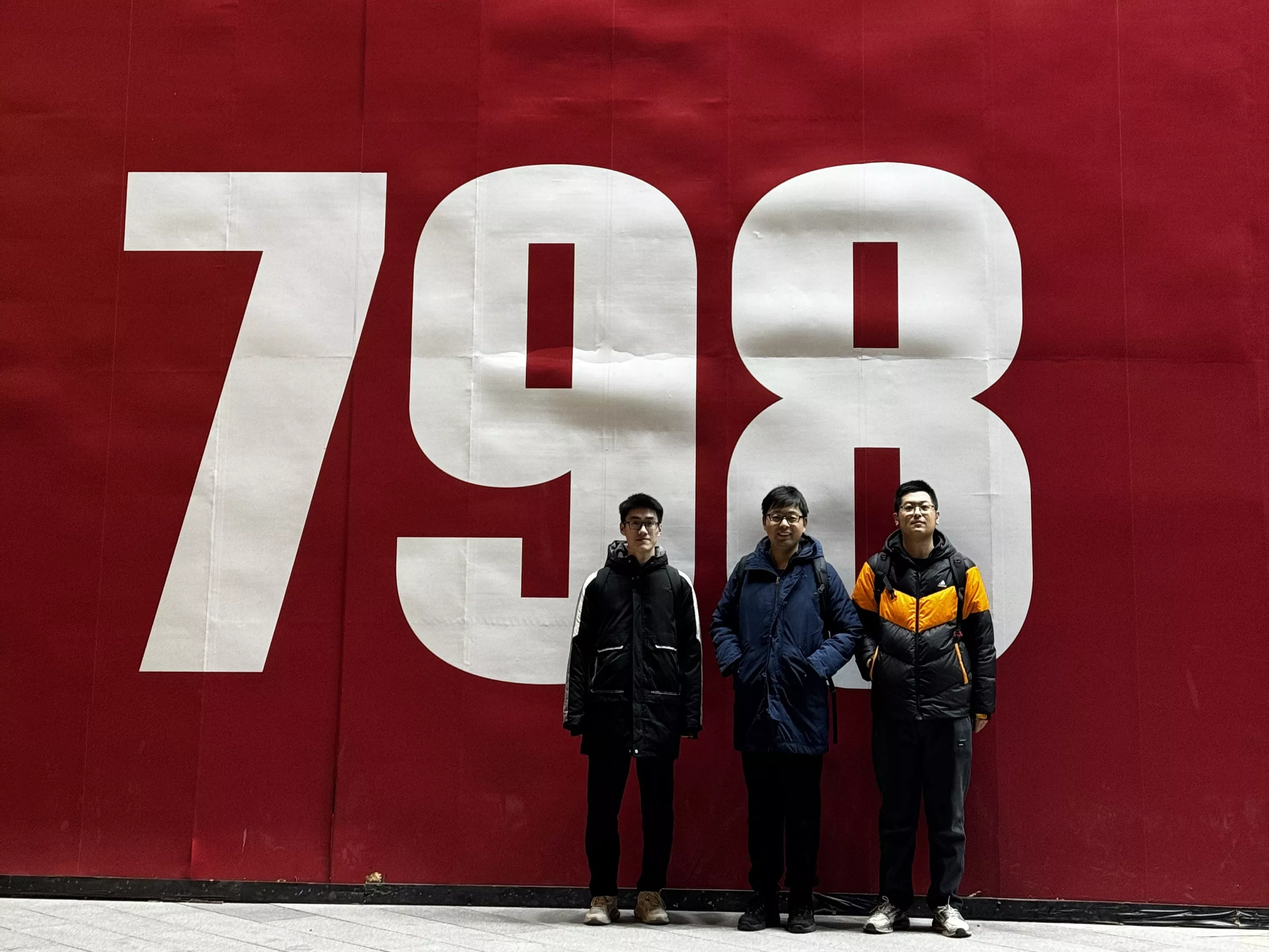
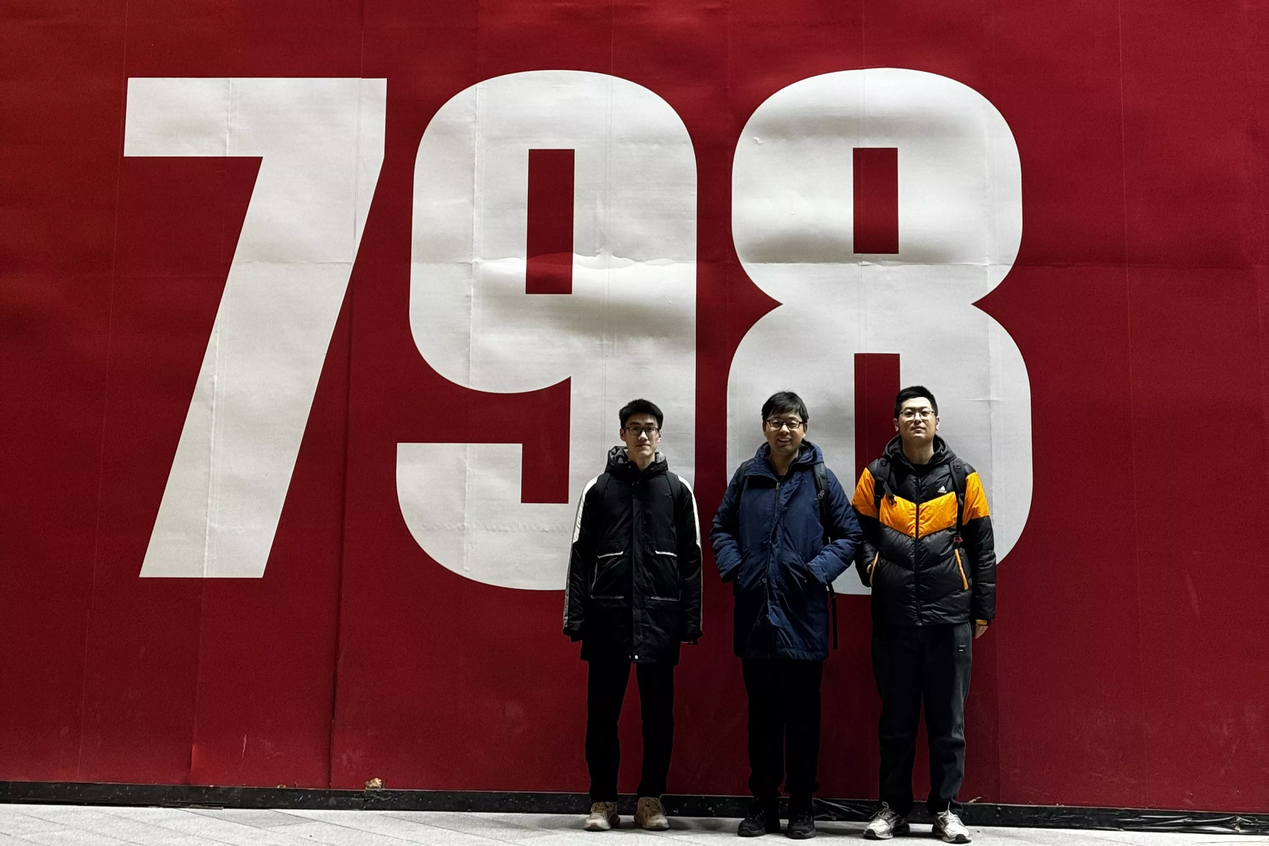
Update gallery title and adjust image aspect ratio

diff --git a/_styles/gallery.scss b/_styles/gallery.scss
@@ -20,7 +20,7 @@
 }
 
 .gallery-image img {
-  aspect-ratio: 16 / 9;
+  aspect-ratio: 3 / 2;
   object-fit: cover;
   width: 100%;
   // box-shadow: var(--shadow);
